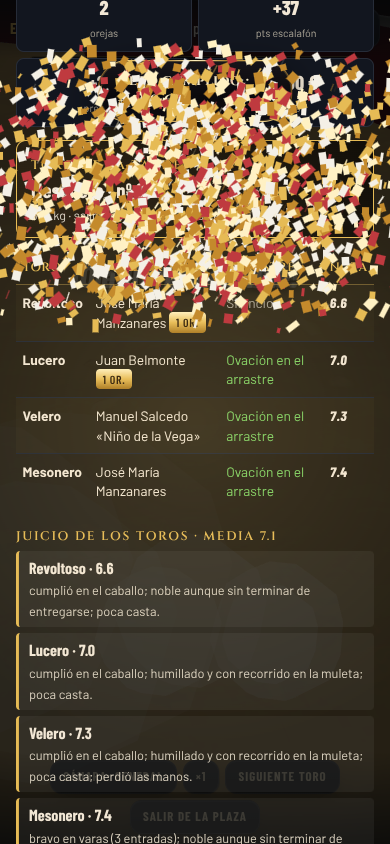
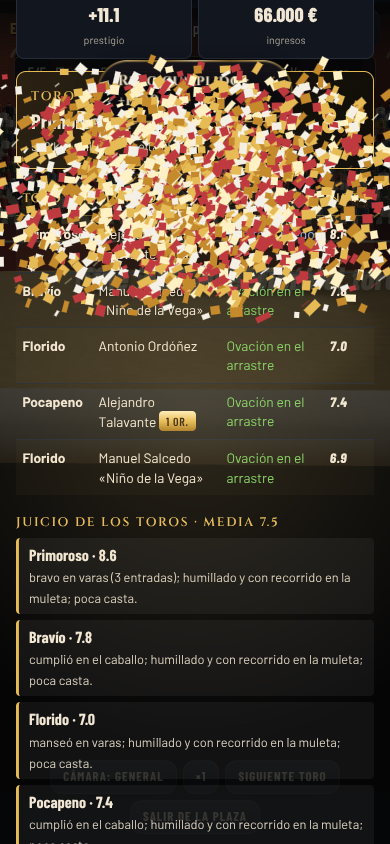
Plaza en directo: capote sin atravesar al toro, cámara sin tapones, velocidad x4 y petición con pañuelos
Claude-Session: https://claude.ai/code/session_01UEz6UKm7eRVhhfCF1Qj26a

diff --git a/ruedo.html b/ruedo.html
@@ -442,7 +442,7 @@ const crowdU={uTime:{value:0},uOle:{value:0}};
 function crowdMat(){const m=new THREE.MeshLambertMaterial();m.onBeforeCompile=sh=>{sh.uniforms.uTime=crowdU.uTime;sh.uniforms.uOle=crowdU.uOle;
  sh.vertexShader='uniform float uTime;uniform float uOle;\n'+sh.vertexShader.replace('#include <begin_vertex>',`#include <begin_vertex>
  float ph=instanceMatrix[3].x*.71+instanceMatrix[3].z*1.37;
- transformed.y+=sin(uTime*1.3+ph*3.)*.012+uOle*max(0.,sin(uTime*7.+ph))*.22*step(.35,fract(ph*.173));`);};return m;}
+ transformed.y+=sin(uTime*1.3+ph*3.)*.012+uOle*max(0.,sin(uTime*7.+ph))*.22*step(.35,fract(ph*.173));vec4 wpC=modelMatrix*instanceMatrix*vec4(0.,.5,0.,1.);transformed*=smoothstep(4.5,7.,distance(wpC.xyz,cameraPosition));`);};return m;}
 function buildCrowd(){lMsg.textContent='Llenando los tendidos';const r=rng(9);
  const seats=[];for(let i=0;i<20;i++){const ys=2.3+(i+1)*.42,rr=R+2.35+i*.8+.42,n=Math.floor(TAU*rr/.56);const off=r()*TAU;
   for(let k=0;k<n;k++){const a=off+k/n*TAU;const sec=frac((a-SUN_AZ)/(TAU/10));if(sec<.02||sec>.98)continue;if(r()<(i>15?.12:.07))continue;seats.push([a,rr,ys,i]);}}
@@ -459,8 +459,16 @@ function buildCrowd(){lMsg.textContent='Llenando los tendidos';const r=rng(9);
   const sol=Math.cos(a-SUN_AZ)<0;if(sol&&r()<.22)hats.push(o.matrix.clone());});
  bodies.receiveShadow=heads.receiveShadow=true;scene.add(bodies,heads);
  const hatG=new THREE.CylinderGeometry(.08,.19,.08,7);hatG.translate(0,.76,0);const hm=new THREE.InstancedMesh(hatG,crowdMat(),hats.length);hats.forEach((m,i)=>{hm.setMatrixAt(i,m);hm.setColorAt(i,c.copy(col(r()<.7?'#d9c48e':'#f2eee4')));});hm.receiveShadow=true;scene.add(hm);
+ crowdPanuelos(bodies);
  crowd={bodies,heads,hm,m0:Float32Array.from(bodies.instanceMatrix.array),h0:Float32Array.from(heads.instanceMatrix.array),k0:Float32Array.from(hm.instanceMatrix.array)};}
 
+const PAN={t:0};crowdU.uPan={value:0};
+function crowdPanuelos(bodies){const n=bodies.count,sel=[];const m=new THREE.Matrix4();for(let i=0;i<n;i++)if(hash2(i,31)<.42)sel.push(i);
+ const g=new THREE.PlaneGeometry(.46,.4,3,1);g.translate(.23,1.12,0);const mat=new THREE.MeshLambertMaterial({color:col('#f6f4ee'),side:THREE.DoubleSide});
+ mat.onBeforeCompile=sh=>{sh.uniforms.uTime=crowdU.uTime;sh.uniforms.uPan=crowdU.uPan;sh.vertexShader='uniform float uTime;uniform float uPan;\n'+sh.vertexShader.replace('#include <begin_vertex>',`#include <begin_vertex>
+  float ph=instanceMatrix[3].x*.53+instanceMatrix[3].z*1.91;float on=step(fract(ph*.37),uPan);float w=(position.x)/.46;
+  transformed.z+=sin(uTime*10.+ph*5.+w*3.)*.12*w;transformed.y+=sin(uTime*7.+ph*3.)*.05;transformed.x+=sin(uTime*6.+ph)*.06;vec4 wpP=modelMatrix*instanceMatrix*vec4(0.,1.,0.,1.);transformed*=on*smoothstep(7.,10.,distance(wpP.xyz,cameraPosition));`);};
+ const pm=new THREE.InstancedMesh(g,mat,sel.length);sel.forEach((i,k)=>{bodies.getMatrixAt(i,m);pm.setMatrixAt(k,m);});pm.frustumCulled=false;scene.add(pm);}
 /* ---------- polvo ---------- */
 function buildDust(){const N=900;const g=new THREE.BufferGeometry();const pos=new Float32Array(N*3),size=new Float32Array(N),alpha=new Float32Array(N);
  g.setAttribute('position',new THREE.BufferAttribute(pos,3));g.setAttribute('aSize',new THREE.BufferAttribute(size,1));g.setAttribute('aAlpha',new THREE.BufferAttribute(alpha,1));
@@ -499,7 +507,7 @@ class Cloth{constructor(nx,ny,w,h,mat){this.nx=nx;this.ny=ny;this.sx=w/(nx-1);th
   const ca=this.ca,cb=this.cb,cr=this.cr,ck=this.ck,nc=ca.length;
   for(let it=0;it<5;it++){for(let c=0;c<nc;c++){const a=ca[c]*3,b=cb[c]*3,wa=w[ca[c]],wb=w[cb[c]];if(wa+wb===0)continue;const dx=p[b]-p[a],dy=p[b+1]-p[a+1],dz=p[b+2]-p[a+2];const d=Math.sqrt(dx*dx+dy*dy+dz*dz)||1e-6;const cor=(d-cr[c])/(d*(wa+wb))*ck[c];
     p[a]+=dx*cor*wa;p[a+1]+=dy*cor*wa;p[a+2]+=dz*cor*wa;p[b]-=dx*cor*wb;p[b+1]-=dy*cor*wb;p[b+2]-=dz*cor*wb;}
-   if(it===2||it===4)this.collide(cols);}}
+   if(it>=1)this.collide(cols);}}
  collide(cols){const p=this.p,o=this.o,w=this.w;for(let i=0;i<this.n;i++){if(w[i]===0)continue;const k=i*3;
   for(let s=0;s<cols.length;s++){const C=cols[s];const dx=p[k]-C[0],dy=p[k+1]-C[1],dz=p[k+2]-C[2],d2=dx*dx+dy*dy+dz*dz,r=C[3];if(d2<r*r){const d=Math.sqrt(d2)||1e-5,f=r/d;p[k]=C[0]+dx*f;p[k+1]=C[1]+dy*f;p[k+2]=C[2]+dz*f;}}
   if(p[k+1]<.015){p[k+1]=.015;o[k]=lerp(o[k],p[k],.7);o[k+2]=lerp(o[k+2],p[k+2],.7);}}}
@@ -763,6 +771,7 @@ function updateTorero(dt){const t=torero,sp=t.spec,sc=sp.h;const yawE=Tyaw+D.spi
  for(const L of [t.lL,t.lR]){add(L.kn.getWorldPosition(new V3()).add(new V3(0,.2,0)),.1);add(L.an.getWorldPosition(new V3()).add(new V3(0,.2,0)),.08);}
  add(bull.muzzleW,.17);add(bull.foreW,.24);add(bull.tipLW,.08);add(bull.tipRW,.08);add(bull.hp.getWorldPosition(new V3()),.42);
  const bodyC=new V3(0,1.1,.1).applyMatrix4(bull.root.matrixWorld);add(bodyC,.52);
+ if(bull.rig&&bull.colB){const sk=bull.root.scale.x||1;for(const [bn,r,oy] of bull.colB){const v=bn.getWorldPosition(new V3());v.y+=oy*sk;add(v,r*sk);}}
  if(D.tool==='capote'){const C=capote,out=gL.clone().sub(gR).normalize(),pins=[];
   for(let k=0;k<3;k++){const a=gL.clone().addScaledVector(out,.09-k*.055),b=gR.clone().addScaledVector(out,-(.09-k*.055));pins.push([k,a.x,a.y-.01,a.z],[C.nx-1-k,b.x,b.y-.01,b.z]);}
   if(D.clothReset){C.setPins(pins.map(q=>q[0]));C.reset((i,j,v)=>{v.lerpVectors(gL,gR,i/(C.nx-1));v.y-=j*C.sy;v.addScaledVector(f,.05*j*C.sy);});D.clothReset=false;}
@@ -785,7 +794,7 @@ function shotPose(shot,o){const focus=T.clone().lerp(B,.38);focus.y=1.0;const sx
  const bh=new V3(Math.sin(Byaw),0,Math.cos(Byaw)),br=new V3(Math.cos(Byaw),0,-Math.sin(Byaw));const spread=T.distanceTo(B)+3.4;
  const frame=(pos,minF,maxF)=>clamp(2*Math.atan(spread*.5/pos.distanceTo(focus))*180/Math.PI*1.2,minF,maxF);o.shake=0;o.rate=3;
  switch(shot){
-  case'tendido':{const a=SUN_AZ+.3;o.pos.set(Math.cos(a)*33.5,6.6,Math.sin(a)*33.5);o.look.copy(focus);o.fov=frame(o.pos,10,40);o.shake=1;o.rate=1.5;break;}
+  case'tendido':{const a=SUN_AZ+.3;o.pos.set(Math.cos(a)*31.5,8.8,Math.sin(a)*31.5);o.look.copy(focus);o.fov=frame(o.pos,10,40);o.shake=1;o.rate=1.5;break;}
   case'callejon':{const a=camS.callAng;o.pos.set(Math.cos(a)*(R+.5),2.45,Math.sin(a)*(R+.5));o.look.copy(focus);o.fov=frame(o.pos,8,34);o.shake=1;o.rate=1.5;break;}
   case'raso':{o.pos.copy(T).addScaledVector(l,-sx*3.3).addScaledVector(f,2.6);o.pos.y=.3;o.look.copy(T).setY(1.15).lerp(bull.foreW,.3);o.fov=44;o.rate=3.5;break;}
   case'torero':{o.pos.copy(T).addScaledVector(f,-2.3).addScaledVector(l,-sx*.75);o.pos.y=1.7;o.look.copy(B).setY(.9).lerp(T,.2);o.look.y=.95;o.fov=44;o.rate=4;break;}
@@ -801,6 +810,8 @@ function updateCamera(dt){camS.shotT+=dt;
  shotPose(shot,_pose);
  if(camS.snap){camS.pos.copy(_pose.pos);camS.look.copy(_pose.look);camS.fov=_pose.fov;camS.snap=false;}
  else{const k=1-Math.exp(-_pose.rate*dt),k2=1-Math.exp(-5*dt);camS.pos.lerp(_pose.pos,k);camS.look.lerp(_pose.look,k2);camS.fov=damp(camS.fov,_pose.fov,2.5,dt);}
+ {const cp=camS.pos;if(ui.cam!=='tendido'){const bc=B.clone().setY(1),dB=cp.distanceTo(bc),mB=2.1;if(dB<mB){cp.copy(bc).addScaledVector(cp.clone().sub(bc).normalize(),mB);}
+  const tc=T.clone().setY(1.1),dT=cp.distanceTo(tc),mT=.95;if(dT<mT){cp.copy(tc).addScaledVector(cp.clone().sub(tc).normalize(),mT);}cp.y=Math.max(cp.y,.22);}}
  camera.position.copy(camS.pos);const lk=camS.look.clone();if(_pose.shake&&!reduceMotion){const d=camS.pos.distanceTo(lk)/30,tt=performance.now()/1000;lk.x+=Math.sin(tt*1.3)*.03*d+Math.sin(tt*3.1)*.01*d;lk.y+=Math.sin(tt*1.7+1)*.02*d;}
  camera.lookAt(lk);camera.fov=camS.fov;camera.updateProjectionMatrix();}
 const reduceMotion=matchMedia('(prefers-reduced-motion: reduce)').matches;
@@ -952,11 +963,13 @@ function buildBullRig(info){const R0=RIG,root=new THREE.Group(),body=new THREE.G
  for(const[cl,x] of [[dc[0],-.02],[dc[1],.02]]){const rg=new THREE.PlaneGeometry(.035,.3);rg.translate(0,-.15,0);const rb=M(rg,std({color:cl,roughness:.7,side:THREE.DoubleSide}));rb.position.x=x;rb.rotation.x=-1.2;div.add(rb);rib.push(rb);}
  const legs=[];[['FrontLowerLegL',1,1,0,.25],['FrontLowerLegR',-1,1,.12,.75],['BackLowerLegL',1,-1,.5,0],['BackLowerLegR',-1,-1,.62,.5]].forEach(([bn,sx,sz,ph,phW])=>{let lo=null;for(const q of pts)if(Math.sign(q.x)===sx&&Math.sign(q.z-wb.getCenter(new V3()).z)===sz&&(!lo||q.y<lo.y))lo=q;
   legs.push({up:{rotation:{x:0}},lo:{rotation:{x:0}},foot:att(B0[bn],lo||new V3()),front:sz>0,ph,phW,restU:0,restL:0,last:0});});
+ const vW=R0.A.Walk?(L*.55)/R0.A.Walk.getClip().duration:1.2,vG=R0.A.Gallop?(L*1.15)/R0.A.Gallop.getClip().duration:5.5;
  const A=R0.A,loco=['Idle','Walk','Gallop'];for(const n of loco)if(A[n]){A[n].reset();A[n].setEffectiveWeight(n==='Idle'?1:0);A[n].play();}
  if(A.Idle_Headlow){A.Idle_Headlow.reset();A.Idle_Headlow.setEffectiveWeight(0);A.Idle_Headlow.play();}
- const vW=A.Walk?(L*.55)/A.Walk.getClip().duration:1.2,vG=A.Gallop?(L*1.15)/A.Gallop.getClip().duration:5.5;
+
  return{rig:true,glb:false,mesh:sk,root,body,wrap,hp,muzzle,fore:foreO,tipL,tipR,legs,tail:[new THREE.Object3D(),new THREE.Object3D(),new THREE.Object3D()],rib,div,anchors,
-  phG:0,phW:0,pitch:0,yawH:0,roll:0,yawRate:0,muzzleW:new V3(),foreW:new V3(),tipLW:new V3(),tipRW:new V3(),info,vW,vG,dead:false,breath:0,raja:0};}
+  phG:0,phW:0,pitch:0,yawH:0,roll:0,yawRate:0,muzzleW:new V3(),foreW:new V3(),tipLW:new V3(),tipRW:new V3(),info,vW,vG,dead:false,breath:0,raja:0,
+  colB:[[B0.Head,.26,0],[B0.Neck3,.3,.05],[B0.Neck1,.38,.05],[B0.Torso3,.46,.02],[B0.Torso2,.48,0],[B0.Torso,.46,0],[B0.Body,.44,0],[B0.FrontUpperLegL,.2,0],[B0.FrontUpperLegR,.2,0]].filter(c=>c[0])};}
 const _qa=new THREE.Quaternion(),_qb=new THREE.Quaternion(),_qc=new THREE.Quaternion(),AXX=new V3(1,0,0),AXY=new V3(0,1,0),AXZ=new V3(0,0,1);
 function qRel(o,stop,out){const ch=[];for(let x=o;x&&x!==stop;x=x.parent)ch.push(x);out.identity();for(let i=ch.length-1;i>=0;i--)out.multiply(ch[i].quaternion);return out;}
 function rotB(b,bone,axis,a){if(!bone||!a)return;qRel(bone,b.wrap,_qa);qRel(bone.parent,b.wrap,_qb);_qc.setFromAxisAngle(axis,a);_qa.premultiply(_qc);bone.quaternion.copy(_qb.invert().multiply(_qa));}
@@ -1045,6 +1058,8 @@ function finFaena(){const d=JUEGO.t;if(!d){newCorrida();return;}const $=id=>docu
  $('rTr').textContent=or?'✦ '.repeat(or).trim():'';$('rD').textContent=det.trim();$('rM').textContent=`Nota del toro ${Math.round(d.score||0)} · bravura ${Math.round(d.B)} · nobleza ${Math.round(d.N)} · casta ${Math.round(d.C)}`;
  $('rSig').textContent=d.ultimo?'Ver el resumen':'Siguiente toro';$('res').classList.add('on');ole(or?1:.4);if(or)audio.clarin();
  parent.postMessage({ruedo:'faena',id:d.id},'*');}
+const _finFaenaP=finFaena;
+finFaena=function(){const d=JUEGO.t;if(d&&(d.trof>=1||d.res==='indulto')&&!finFaena.w){finFaena.w=1;PAN.t=4.2;ole(1);if(ui.cam==='cine')cut('tendido');setTimeout(()=>{finFaena.w=0;_finFaenaP();},3200);return;}return _finFaenaP();};
 function hideRes(){const r=document.getElementById('res');if(r)r.classList.remove('on');}
 function panelUI(){return;const $=id=>document.getElementById(id);
  $('chCam').innerHTML=CAMS.map(c=>`<button class="chip" data-c="${c.id}" aria-pressed="${ui.cam===c.id}">${c.name}</button>`).join('');
@@ -1053,7 +1068,7 @@ function panelUI(){return;const $=id=>document.getElementById(id);
  $('chVel').onclick=e=>{const b=e.target.closest('[data-v]');if(!b)return;ui.speed=+b.dataset.v;ui.paused=false;panelUI();};}
 const CAMN={cine:'realizador',libre:'libre',tendido:'tendido',callejon:'callejón',raso:'ras de arena',torero:'torero',toro:'toro',cenital:'cenital'};
 function initPanel(){const $=id=>document.getElementById(id);const msg=m=>parent.postMessage({ruedo:m,id:JUEGO.t&&JUEGO.t.id},'*');
- const cams=['cine','tendido','callejon','raso','torero','toro','cenital'],vels=[1,1.5,2,.5];
+ const cams=['cine','tendido','callejon','raso','torero','toro','cenital'],vels=[1,1.5,2,4,.5];
  const pinta=()=>{$('bCam').textContent='Cámara: '+(CAMN[ui.cam]||ui.cam);$('bVel').textContent='×'+String(ui.speed).replace('.',',');};
  $('bCam').onclick=()=>{setCam(cams[(cams.indexOf(ui.cam)+1)%cams.length]);document.body.classList.toggle('cine',ui.cam==='cine');pinta();};
  $('bVel').onclick=()=>{ui.speed=vels[(vels.indexOf(ui.speed)+1)%vels.length];ui.paused=false;pinta();};
@@ -1069,17 +1084,16 @@ function autoCalidad(dtR){AQ.acc+=dtR;AQ.n++;AQ.t+=dtR;if(AQ.t<2)return;const ms
   if(AQ.lvl===3&&crowd){crowd.hm.visible=false;}}}
 function frame(now){requestAnimationFrame(frame);try{if(last)autoCalidad(Math.min(.2,(now-last)/1000));}catch(e){}if(!bull||!torero)return;const dtR=Math.min(.05,(now-last)/1000);last=now;
  const tgt=ui.paused?0:ui.speed*(ui.slow&&D.embroque?.6:1);timeScale=ui.paused?0:damp(timeScale,tgt,5,dtR);const dt=dtR*timeScale;
- if(dt>0){simTime+=dt;updateDirector(dt);}
- updateBull(dt);updateTorero(dt);supremaPost(dt);updateDust(dt);
- oleLevel=Math.max(0,oleLevel-dt*.45);crowdU.uOle.value=smooth(0,.6,oleLevel);crowdU.uTime.value=simTime;
+ {const nS=Math.min(4,Math.max(1,Math.ceil(dt/.05))),h=dt/nS;for(let s=0;s<nS;s++){if(h>0){simTime+=h;updateDirector(h);}updateBull(h);updateTorero(h);supremaPost(h);}}updateDust(dt);
+ oleLevel=Math.max(0,oleLevel-dt*.45);PAN.t-=dtR;crowdU.uPan.value=damp(crowdU.uPan.value,PAN.t>0?1:0,1.6,dtR);crowdU.uOle.value=smooth(0,.6,oleLevel);crowdU.uTime.value=simTime;
  for(const fl of flags){const a=fl.m.geometry.attributes.position,b=fl.base;for(let i=0;i<a.count;i++){const x=b[i*3];a.array[i*3+2]=Math.sin(x*4-simTime*6+fl.ph)*.14*x+Math.sin(x*7-simTime*9)*.03*x;}a.needsUpdate=true;fl.m.geometry.computeVertexNormals();}
  const focus=T.clone().lerp(B,.38);sun.position.copy(focus).addScaledVector(sun.userData.dir,110);sun.target.position.copy(focus);
  updateCamera(dtR);
  dust.mat.uniforms.uScale.value=renderer.domElement.height/(2*Math.tan(camera.fov*Math.PI/360));
  renderer.render(scene,camera);
 
- if(!reduceMotion&&(gTick++%2===0)){const d=gimg.data;for(let i=0;i<d.length;i+=4){const v=Math.random()*255;d[i]=d[i+1]=d[i+2]=v;d[i+3]=255;}gctx.putImageData(gimg,0,0);}}
-window.__ruedo={D,ui,setCam,fin:()=>finFaena(),sup:()=>suprema(),SP,get t(){return simTime;},get info(){const i=renderer.info.render;return {tri:i.triangles,calls:i.calls,crowd:crowd.bodies.count,pr:renderer.getPixelRatio(),sh:sun.shadow.mapSize.x};}};
+ if(false){const d=gimg.data;for(let i=0;i<d.length;i+=4){const v=Math.random()*255;d[i]=d[i+1]=d[i+2]=v;d[i+3]=255;}gctx.putImageData(gimg,0,0);}}
+window.__ruedo={D,ui,setCam,fin:()=>finFaena(),sup:()=>suprema(),SP,get t(){return simTime;},get bull(){return bull;},pan:()=>{PAN.t=30;},get info(){const i=renderer.info.render;return {tri:i.triangles,calls:i.calls,crowd:crowd.bodies.count,pr:renderer.getPixelRatio(),sh:sun.shadow.mapSize.x};}};
 })();
 </script>
 

diff --git a/sw.js b/sw.js
@@ -1,5 +1,5 @@
 // Caché para jugar sin conexión una vez cargado
-const V='hierro-divisa-v48';
+const V='hierro-divisa-v50';
 const ARCHIVOS=['./', 'index.html', 'ruedo.html', 'js/ruedo.js', 'js/libs/OrbitControls.js', 'js/libs/Sky.js', 'modelos/toro-ruedo.glb', 'css/estilo.css', 'css/moderno.css', 'css/fuentes.css', 'fonts/barlow-condensed-latin-500-normal.woff2', 'fonts/barlow-condensed-latin-600-italic.woff2', 'fonts/barlow-condensed-latin-600-normal.woff2', 'fonts/barlow-condensed-latin-700-italic.woff2', 'fonts/barlow-condensed-latin-700-normal.woff2', 'fonts/barlow-condensed-latin-800-italic.woff2', 'fonts/barlow-condensed-latin-800-normal.woff2', 'fonts/barlow-latin-400-normal.woff2', 'fonts/barlow-latin-500-normal.woff2', 'fonts/barlow-latin-600-normal.woff2', 'fonts/barlow-latin-700-normal.woff2', 'fonts/cinzel-latin-600-normal.woff2', 'fonts/cinzel-latin-700-normal.woff2', 'js/juego.js', 'js/mundo3d.js', 'js/carrera.js', 'js/musica.js', 'js/sonido.js', 'js/corro.js', 'js/calle.js', 'js/calle2.js', 'js/calle3.js', 'js/localidades.js', 'js/gfx.js', 'js/extras.js', 'js/divisas.js', 'js/casa.js', 'js/finca2.js', 'js/lidia.js', 'js/fx.js', 'js/menu.js', 'js/modelos.js', 'js/toros3d.js', 'js/toro3.js', 'js/torero3d.js', 'js/torero.js', 'js/estabilidad.js', 'js/panel.js', 'js/clima.js', 'js/finca3.js', 'js/finca4.js', 'js/jinetes.js', 'js/genetica.js', 'js/economia.js', 'js/rendimiento.js', 'js/uipro.js', 'js/pulido.js', 'js/navbar.js', 'js/calendario.js', 'js/texturas.js', 'modelos/natura.gltf.json', 'img/nav-toro.png', 'img/nav/c_con.png', 'img/nav/c_ini.png', 'img/nav/c_inv.png', 'img/nav/c_mer.png', 'img/nav/c_res.png', 'img/nav/camada.png', 'img/nav/drapeL.png', 'img/nav/drapeR.png', 'img/nav/finca.png', 'img/nav/inicio.png', 'img/nav/mercado.png', 'img/nav/ofertas.png', 'img/nav/palmares.png', 'img/nav/tareas.png', 'img/tex/albero.jpg', 'img/tex/asfalto-n.jpg', 'img/tex/asfalto.jpg', 'img/tex/detalle.jpg', 'img/tex/tierra-n.jpg', 'js/libs/three.min.js', 'js/libs/GLTFLoader.js', 'js/libs/SkeletonUtils.js', 'js/libs/BufferGeometryUtils.js', 'modelos/persona.glb', 'modelos/caballo.glb', 'modelos/persona2.gltf.json', 'modelos/toro.glb', 'modelos/toro-tripo.glb', 'modelos/toro-tripo-lo.glb', 'modelos/vaca.glb', 'manifest.webmanifest', 'img/cabeza.jpg', 'img/calle.jpg', 'img/calle-nit.jpg', 'img/cuerno.jpg', 'img/dehesa.jpg', 'img/hero.jpg', 'img/icono-192.png', 'img/icono-512.png', 'img/palco.jpg', 'img/plaza-1.jpg', 'img/plaza-2.jpg', 'img/toro-cardeno-0.jpg', 'img/toro-cardeno-1.jpg', 'img/toro-cardeno-2.jpg', 'img/toro-cardeno-3.jpg', 'img/toro-cardeno-4.jpg', 'img/toro-cardeno-5.jpg', 'img/toro-cardeno-6.jpg', 'img/toro-cardeno-7.jpg', 'img/toro-castano-0.jpg', 'img/toro-castano-1.jpg', 'img/toro-castano-2.jpg', 'img/toro-castano-3.jpg', 'img/toro-castano-4.jpg', 'img/toro-castano-5.jpg', 'img/toro-castano-6.jpg', 'img/toro-castano-7.jpg', 'img/toro-colorado-0.jpg', 'img/toro-colorado-1.jpg', 'img/toro-colorado-2.jpg', 'img/toro-colorado-3.jpg', 'img/toro-colorado-4.jpg', 'img/toro-colorado-5.jpg', 'img/toro-colorado-6.jpg', 'img/toro-colorado-7.jpg', 'img/toro-jabonero-0.jpg', 'img/toro-jabonero-1.jpg', 'img/toro-jabonero-2.jpg', 'img/toro-jabonero-3.jpg', 'img/toro-jabonero-4.jpg', 'img/toro-jabonero-5.jpg', 'img/toro-jabonero-6.jpg', 'img/toro-jabonero-7.jpg', 'img/toro-negro-0.jpg', 'img/toro-negro-1.jpg', 'img/toro-negro-2.jpg', 'img/toro-negro-3.jpg', 'img/toro-negro-4.jpg', 'img/toro-negro-5.jpg', 'img/toro-negro-6.jpg', 'img/toro-negro-7.jpg', 'img/toro-sombra.jpg'];
 self.addEventListener('install',e=>{e.waitUntil(caches.open(V).then(c=>c.addAll(ARCHIVOS)).then(()=>self.skipWaiting()))});
 self.addEventListener('activate',e=>{e.waitUntil(caches.keys().then(k=>Promise.all(k.filter(x=>x!==V).map(x=>caches.delete(x)))).then(()=>self.clients.claim()))});

diff --git a/CHANGELOG.md b/CHANGELOG.md
@@ -102,3 +102,10 @@ Calendario por semanas al estilo FIFA, barra de gala y pantallas a juego, sonido
 - Calidad automática: baja resolución, sombras y sombreros si el móvil no llega a ~38 FPS.
 - Polvo sin discos grandes; rayas de picadores finas y gastadas.
 - Pesos del esqueleto del toro alisados y soldados en costuras: sin roturas en cuello, patas ni costuras al moverse.
+
+## Plaza en directo: física, cámara, velocidad y público
+- Capote y muleta chocan con todo el toro (cabeza, cuello, morrillo, costillar, cuartos) en cada iteración: ya no lo atraviesan.
+- La cámara nunca se mete dentro del toro, del torero ni bajo el albero; la del tendido va por encima de las gradas.
+- Velocidad hasta ×4 con subpasos de física.
+- Público: pañuelos blancos al pedir la oreja o el indulto antes de que decida la presidencia.
+- Sin cálculo oculto de grano en cada fotograma.
